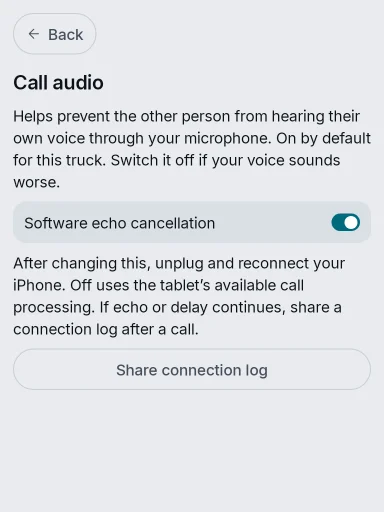
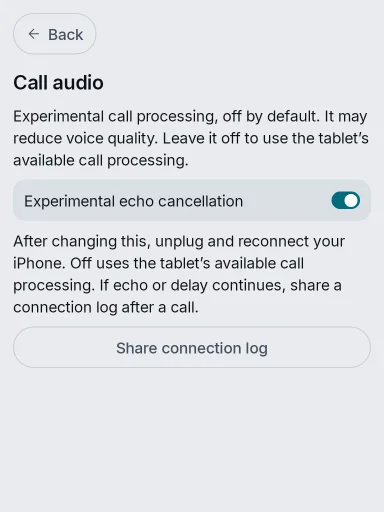
Default F-150 calls to platform processing
Turn software call AEC Off once on fresh installs and upgrades, including the default enabled by 1.2.3. Keep later explicit choices and existing display/music preferences. Mark the switch experimental and include the reported external microphone in log exports.

The head-unit comparison found that software AEC caused muffled/robotic/distorted voices without resolving caller echo; Off plus reconnect restored voice quality. Keep the existing engine, buffer and recovery code unchanged while awaiting a call log for the original echo.

All four suites: 3920 passed, two existing skips. Debug/R8 builds, APK/signature/content checks and changed UI renders pass. The exact migration APK still needs head-unit installation; the original echo remains unresolved.

Changed region(s): [[0.0312, 0.2188, 0.9688, 0.75]]

diff --git a/app/src/test/java/com/carlink/app/F150ProfileTest.kt b/app/src/test/java/com/carlink/app/F150ProfileTest.kt
@@ -34,9 +34,9 @@ class F150ProfileTest {
         assertEquals(120, AirPlayPersistence.loadWidthPhysicalMm(app))
     }
 
-    @Test fun freshInstallEnablesSoftwareCallEchoCancellation() {
+    @Test fun freshInstallUsesPlatformCallProcessing() {
         F150Profile.install(app)
-        assertTrue(AirPlayPersistence.loadCallEchoCancellation(app))
+        assertFalse(AirPlayPersistence.loadCallEchoCancellation(app))
     }
 
     @Test fun existingInstallGetsCallDefaultWithoutResettingDisplay() {
@@ -45,7 +45,7 @@ class F150ProfileTest {
         AirPlayPersistence.saveWidthPhysicalMm(app, 120)
         AirPlayPersistence.saveCallEchoCancellation(app, false)
         F150Profile.install(app)
-        assertTrue(AirPlayPersistence.loadCallEchoCancellation(app))
+        assertFalse(AirPlayPersistence.loadCallEchoCancellation(app))
         assertEquals(120, AirPlayPersistence.loadWidthPhysicalMm(app))
     }
 
@@ -54,5 +54,22 @@ class F150ProfileTest {
         AirPlayPersistence.saveCallEchoCancellation(app, false)
         F150Profile.install(app)
         assertFalse(AirPlayPersistence.loadCallEchoCancellation(app))
+    }
+
+    @Test fun upgradingFrom123TurnsOffItsEnabledDefaultWithoutResettingDisplay() {
+        app.getSharedPreferences("f150_profile", Application.MODE_PRIVATE).edit()
+            .putBoolean("installed", true).putBoolean("call_echo_default_installed", true).commit()
+        AirPlayPersistence.saveWidthPhysicalMm(app, 120)
+        AirPlayPersistence.saveCallEchoCancellation(app, true)
+        F150Profile.install(app)
+        assertFalse(AirPlayPersistence.loadCallEchoCancellation(app))
+        assertEquals(120, AirPlayPersistence.loadWidthPhysicalMm(app))
+    }
+
+    @Test fun laterRestartsRespectAnExplicitExperimentalOptIn() {
+        F150Profile.install(app)
+        AirPlayPersistence.saveCallEchoCancellation(app, true)
+        F150Profile.install(app)
+        assertTrue(AirPlayPersistence.loadCallEchoCancellation(app))
     }
 }

diff --git a/app/src/main/java/com/carlink/app/F150Profile.kt b/app/src/main/java/com/carlink/app/F150Profile.kt
@@ -28,11 +28,12 @@ object F150Profile {
             AirPlayPersistence.savePhysicalSizeBasis(context, AirPlayPhysicalSizeBasis.WIDTH)
             prefs.edit().putBoolean("installed", true).apply()
         }
-        // Earlier F-150 builds did not expose this setting and used platform AEC only.
-        // Upgrade them too, without resetting display/EQ preferences or a subsequent Off choice.
-        if (!prefs.getBoolean("call_echo_default_installed", false)) {
-            AirPlayPersistence.saveCallEchoCancellation(context, true)
-            prefs.edit().putBoolean("call_echo_default_installed", true).apply()
+        // The software AEC trial degraded this truck's external-mic calls without curing echo.
+        // Reset it once on fresh installs and upgrades, including an enabled 1.2.3 preference.
+        // Later explicit experimental opt-ins remain under the driver's control.
+        if (!prefs.getBoolean("platform_call_audio_default_installed", false)) {
+            AirPlayPersistence.saveCallEchoCancellation(context, false)
+            prefs.edit().putBoolean("platform_call_audio_default_installed", true).apply()
         }
     }
 }

diff --git a/app/src/main/java/com/carlink/app/ui/CarLinkViewModel.kt b/app/src/main/java/com/carlink/app/ui/CarLinkViewModel.kt
@@ -169,6 +169,7 @@ class CarLinkViewModel(application: Application) : AndroidViewModel(application)
                 ConnectionLog.export(app, "F-150 Lariat / Linkswell / USB CarPlay\n" +
                     "Version ${BuildConfig.VERSION_NAME}; Android ${android.os.Build.VERSION.RELEASE}\n" +
                     "Device ${android.os.Build.MANUFACTURER} ${android.os.Build.MODEL}; CarPlay width ${_carPlayWidth.value} mm\n" +
+                    "Reported microphone: external, plugged into Linkswell\n" +
                     "Software call echo cancellation requested: ${_callEchoCancellation.value}")
             }
             val label = app.getString(R.string.carlink_f150_share_log)

diff --git a/README.md b/README.md
@@ -25,22 +25,24 @@ state when Reset to flat is pressed. Each audio renderer has independent filter 
 short crossfades on changes and automatic headroom for boosts. Stable Off/flat leaves PCM bytes
 unchanged. Unsupported formats bypass it; no global/system equalizer or new audio buffers are used.
 
-Settings > Call audio controls the engine's existing software echo canceller. Version 1.2.3 enables
-it once on install/upgrade for this truck; later restarts preserve an Off choice. Unplug/reconnect
-after changing it. Matching mono call audio uses the speaker reference; unsupported/failed software
-processing keeps/restores Android's available call effects. Software and platform AEC are not
-deliberately stacked. This targets the other person's voice echoing back through the microphone;
-it does not establish the cause of every kind of feedback. Music EQ still bypasses calls.
+Settings > Call audio exposes the engine's experimental software echo canceller. It is **Off by
+default** in 1.2.4. A one-time migration turns off the default enabled by 1.2.3 without changing
+display/music preferences; later explicit opt-ins remain under the driver's control. Unplug and
+reconnect after changing the setting. Matching mono call audio can use the speaker reference;
+unsupported/failed software processing keeps/restores Android's available call effects. Software
+and platform AEC are not deliberately stacked. Music EQ still bypasses calls.
 
-Calls now read one microphone packet frame at a time and use a sample-rate-based playback start
-threshold, respecting Android's minimum buffer. Android 12+ receives a native start-threshold
-request; older devices or a failed request use a two-window effective buffer, keeping the original
-allocation. Rejected adjustments retain the working track and are logged. This removes fixed
-byte-count batching that grew longer at lower call sample rates. The call policy follows original
-telephony identity even when audio is routed as media; music, Siri and navigation buffering stay unchanged. Exported call-start
-diagnostics identify the requested frame/read sizes and actual software/platform effect states.
-These are code-level latency changes; end-to-end call delay and acoustic suppression need testing
-on the Linkswell.
+The external-microphone test on this Linkswell found that software AEC made voices muffled/robotic
+or distorted without fixing the caller hearing their own voice. Turning it Off and reconnecting
+restored the previous voice quality, while the original echo remained. This isolates the new
+quality regression to that processing mode; it does not establish the cause of the original echo.
+A call log with AEC Off is needed before selecting another processing or routing change.
+
+The 1.2.3 call-buffer policy remains: one microphone packet frame per read, an application start
+threshold based on rate/device minimum, and an Android 12+ native start-threshold request or
+older-device effective-buffer fallback. The user's A/B comparison did not implicate these buffer
+changes. Actual accepted sizes/effects/rates are exported; end-to-end delay has not been measured,
+and a separate delay was not confirmed beyond the repeated echo.
 
 The 1.2.1 stability patch prevents a late close callback from a replaced or explicitly retired
 video stream from ending the live CarPlay session. Genuine EOF/errors from the current stream
@@ -80,9 +82,10 @@ If Android asks which app should handle USB, select **F-150 CarPlay**. Its packa
 Test cold startup, quick replug, phone left connected across ignition, Siri/calls/music,
 steering-wheel controls, reverse-camera return, icon sizes, all four bar combinations and EQ
 on/off/music balance while navigation or calls play. The user reports that v1.2.2 startup works
-well, and has now reported call feedback/possible delay. The cause of the earlier rare automatic
-reconnects is still unconfirmed. **The call changes and full hardware test matrix need validation
-on the Linkswell.** Settings > Share connection log exports
+well. The caller hears their own voice through an external microphone plugged into the Linkswell.
+The 1.2.3 software AEC trial worsened voice quality; Off restored it without resolving echo.
+The cause of the earlier rare automatic reconnects is still unconfirmed. **The original call echo
+and full hardware test matrix need diagnosis/validation on the Linkswell.** Settings > Share connection log exports
 `WIRED_TIMING`, boot/wake/USB readiness and app events for diagnosis. No on-car speed is claimed
 from unit tests.
 

diff --git a/docs/ARCHITECTURE.md b/docs/ARCHITECTURE.md
@@ -1,4 +1,4 @@
-> **F-150 fork, version 1.2.3:** the current product has `:app` (clock/status, settings, music EQ, call audio,
+> **F-150 fork, version 1.2.4:** the current product has `:app` (clock/status, settings, music EQ, call audio,
 > About and log export), `:carlink-core` (one USB CarPlay session, USB routing/wake/reset,
 > display policy, per-renderer music PCM equalization and timing history),
 > and DiPlay's `:carplay-common` / `:carplay-shared` engine. Android Auto and the generic wireless,
@@ -33,8 +33,9 @@ history. Steady Off/flat is an O(1) byte-exact bypass; active processing uses fi
 20 ms bank crossfades and headroom/saturation. It does not change AudioTrack sizing, routing or
 USB startup. DSP/routing tests cannot verify a Linkswell's acoustic output or CPU/connection time.
 
-`F150Profile` applies the software-call-AEC default once on fresh installs and upgrades; subsequent
-Off selections persist. Call audio settings write the existing engine preference and apply on a
+`F150Profile` defaults software call AEC Off. A one-time 1.2.4 migration also clears the enabled
+1.2.3 default; later explicit choices persist. The user reports that Off restores voice quality,
+while the external-mic caller echo remains unresolved. Call audio settings write the existing engine preference and apply on a
 new connection. The engine retains per-call speaker references and its platform-effects fallback.
 Call capture reads one transport frame at a time, and original telephony uses a duration-based
 playback start/write plan even when mapped to the media channel. API 31+ requests AudioTrack's
